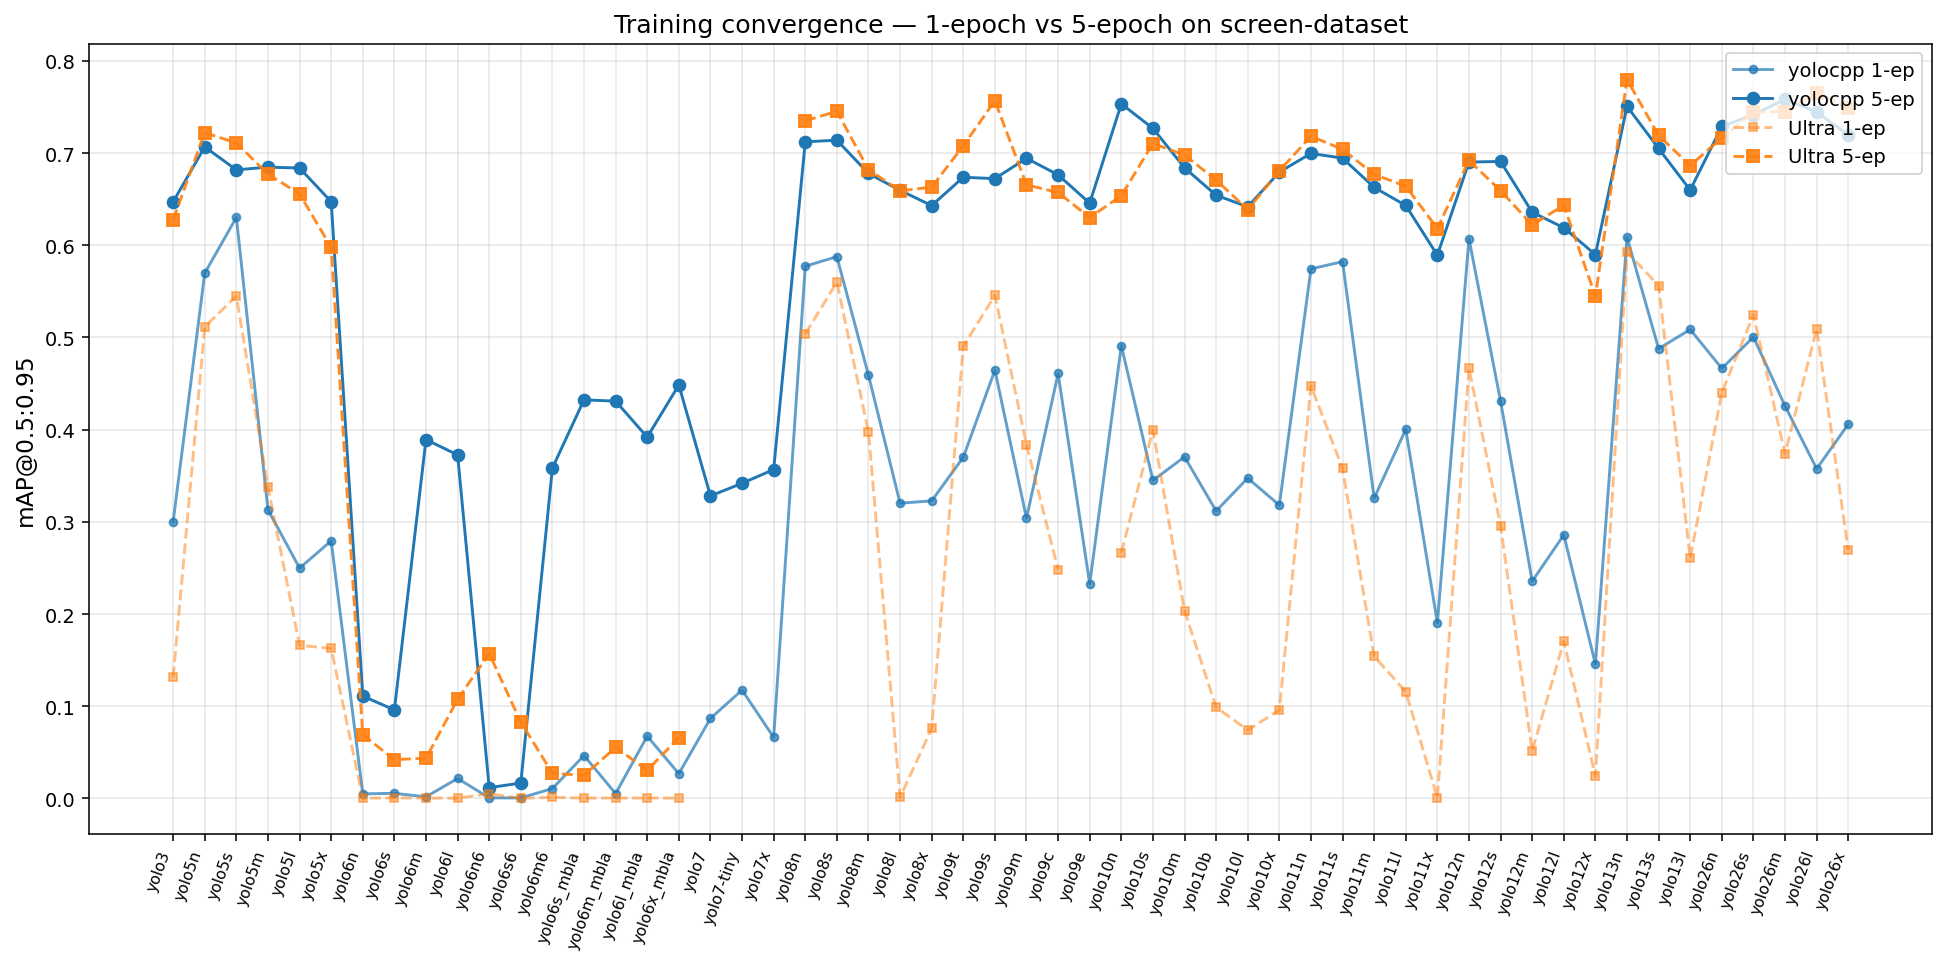
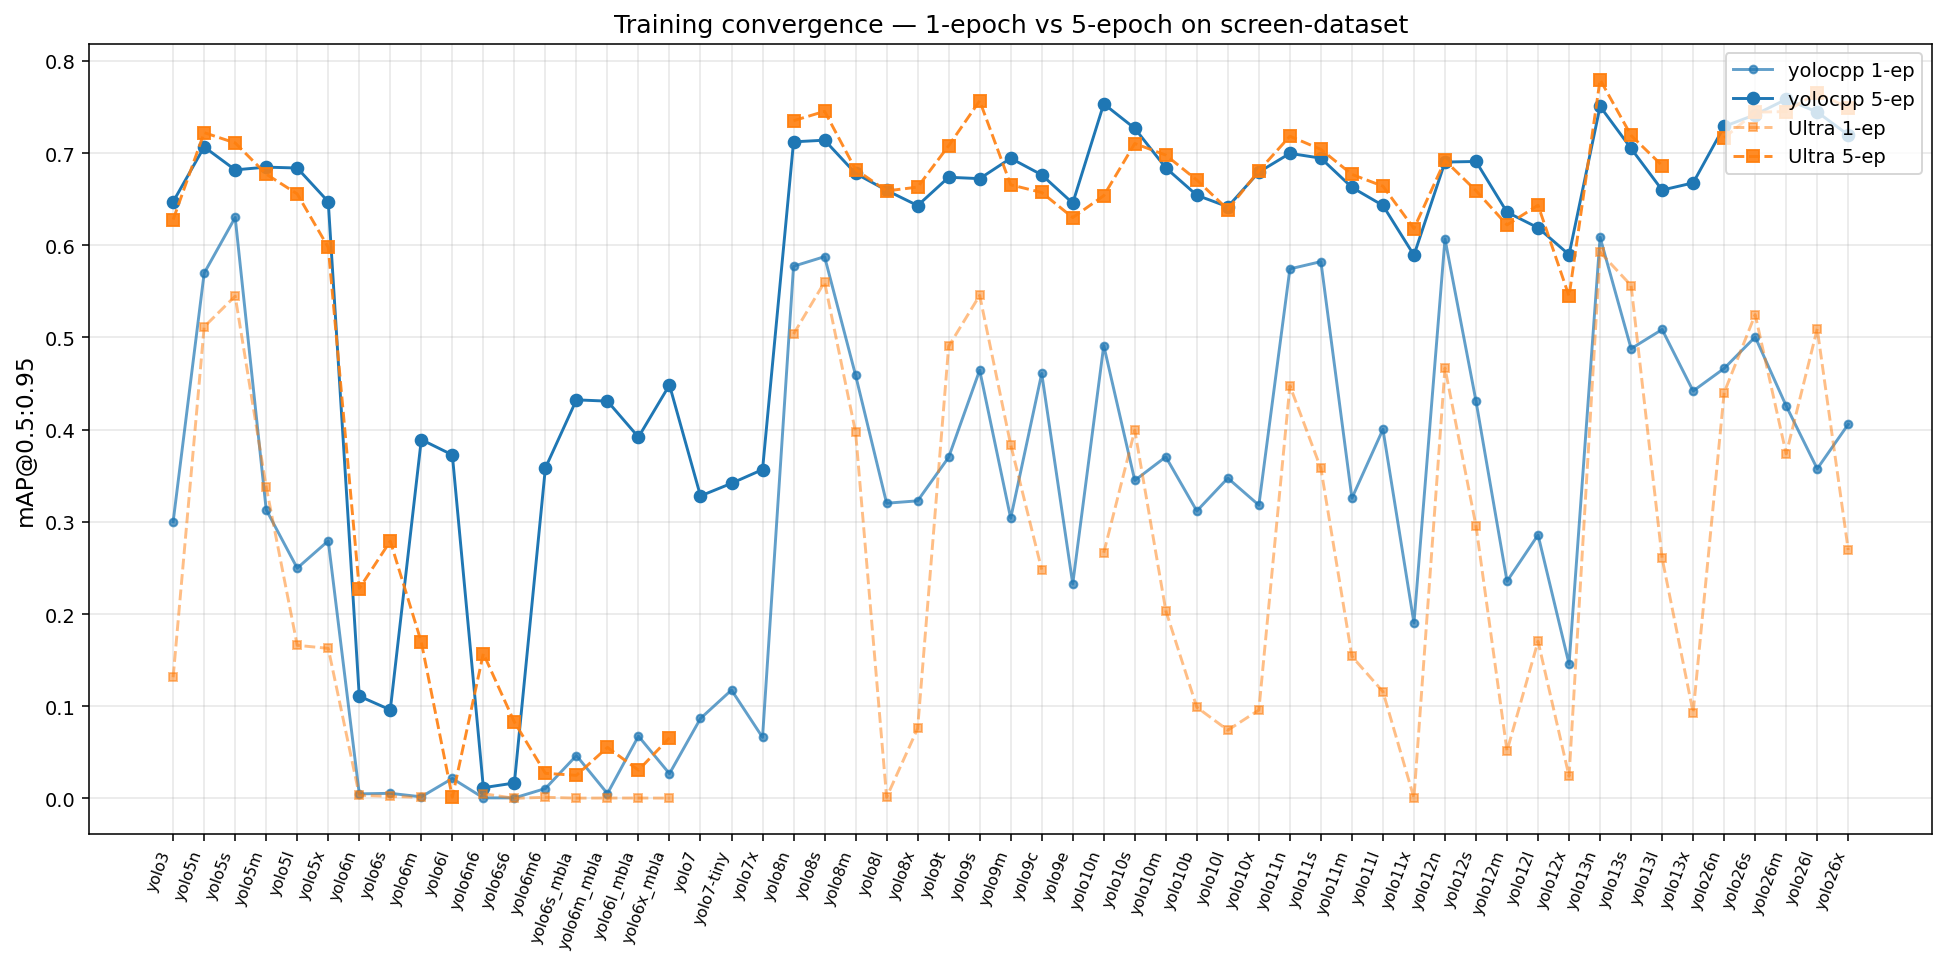
docs(csv): yolo13x b=8 cells + Ultra-from-YAML v6 baseline (0.99.47)
- yolo13x 1ep/5ep filled via b=8 retrain (both stacks OOM at b=16)
- v6 U-side switched from Meituan to Ultralytics-trained-from-YAML;
  same Ultralytics codebase user runs for every other variant
- v7 U-side stays blank; documented as structural in bench_config.yaml

diff --git a/CHANGELOG.md b/CHANGELOG.md
@@ -4,6 +4,40 @@ All notable changes to **yolocpp** are documented here. Format follows
 [Keep a Changelog](https://keepachangelog.com/en/1.1.0/) and
 [Semantic Versioning](https://semver.org/spec/v2.0.0.html).
 
+## [0.99.47] — 2026-06-03
+
+### Added
+- **yolo13x b=8 train cells filled** in `docs/data/training.csv`.
+  Both Y and U sides OOMed at b=16 on 32 GB; re-ran at b=8 →
+  yolocpp 1ep mAP=0.442 / 5ep mAP=0.668; iMoonLab 1ep mAP=0.093.
+  Row's `batch_train` column = 8 to make the asymmetry auditable.
+- **Ultralytics-from-YAML v6 baseline** replaces Meituan on the
+  U-side of v6n/s/m/l. Stock Ultralytics ships
+  `cfg/models/v6/yolov6.yaml` with a scales mechanism; it can
+  *train* v6 from YAML even though it can't *load* Meituan's
+  `.pt` checkpoints. User asked "why can't you train v6 from
+  Ultralytics directly?" — answer is "we can, just not from
+  Meituan weights"; switched to the YAML path so the U-side
+  numbers reflect Ultralytics' codebase the way every other
+  variant does. 5-ep results: yolov6n mAP=0.228, yolov6s 0.279,
+  yolov6m 0.170, yolov6l 0.001. Meituan logs stay in
+  `/tmp/ultra_bench/meituan_train/` for historical reference;
+  the gap is documented in CHANGELOG 0.99.18.
+
+### Changed
+- `build_csv_v2.py` glob bug fix landed in 0.99.46 (`cpp_*.json`
+  → `cpp_*.log`); follow-up here: precedence flip so
+  Ultralytics-from-YAML overwrites Meituan instead of the other
+  way around. Block moved after the Meituan reader so it writes
+  last.
+
+### Deferred
+- **v7 U-side stays blank** (7 variants). Ultralytics ships no
+  `yolov7.yaml`; WongKinYiu's pipeline fails with
+  `_pickle.UnpicklingError: unpickling stack underflow` under
+  torch 2.12 (2022 checkpoint format incompatible). Structural,
+  documented in `bench_config.yaml::structurally_missing_cells`.
+
 ## [0.99.46] — 2026-06-03
 
 ### Added